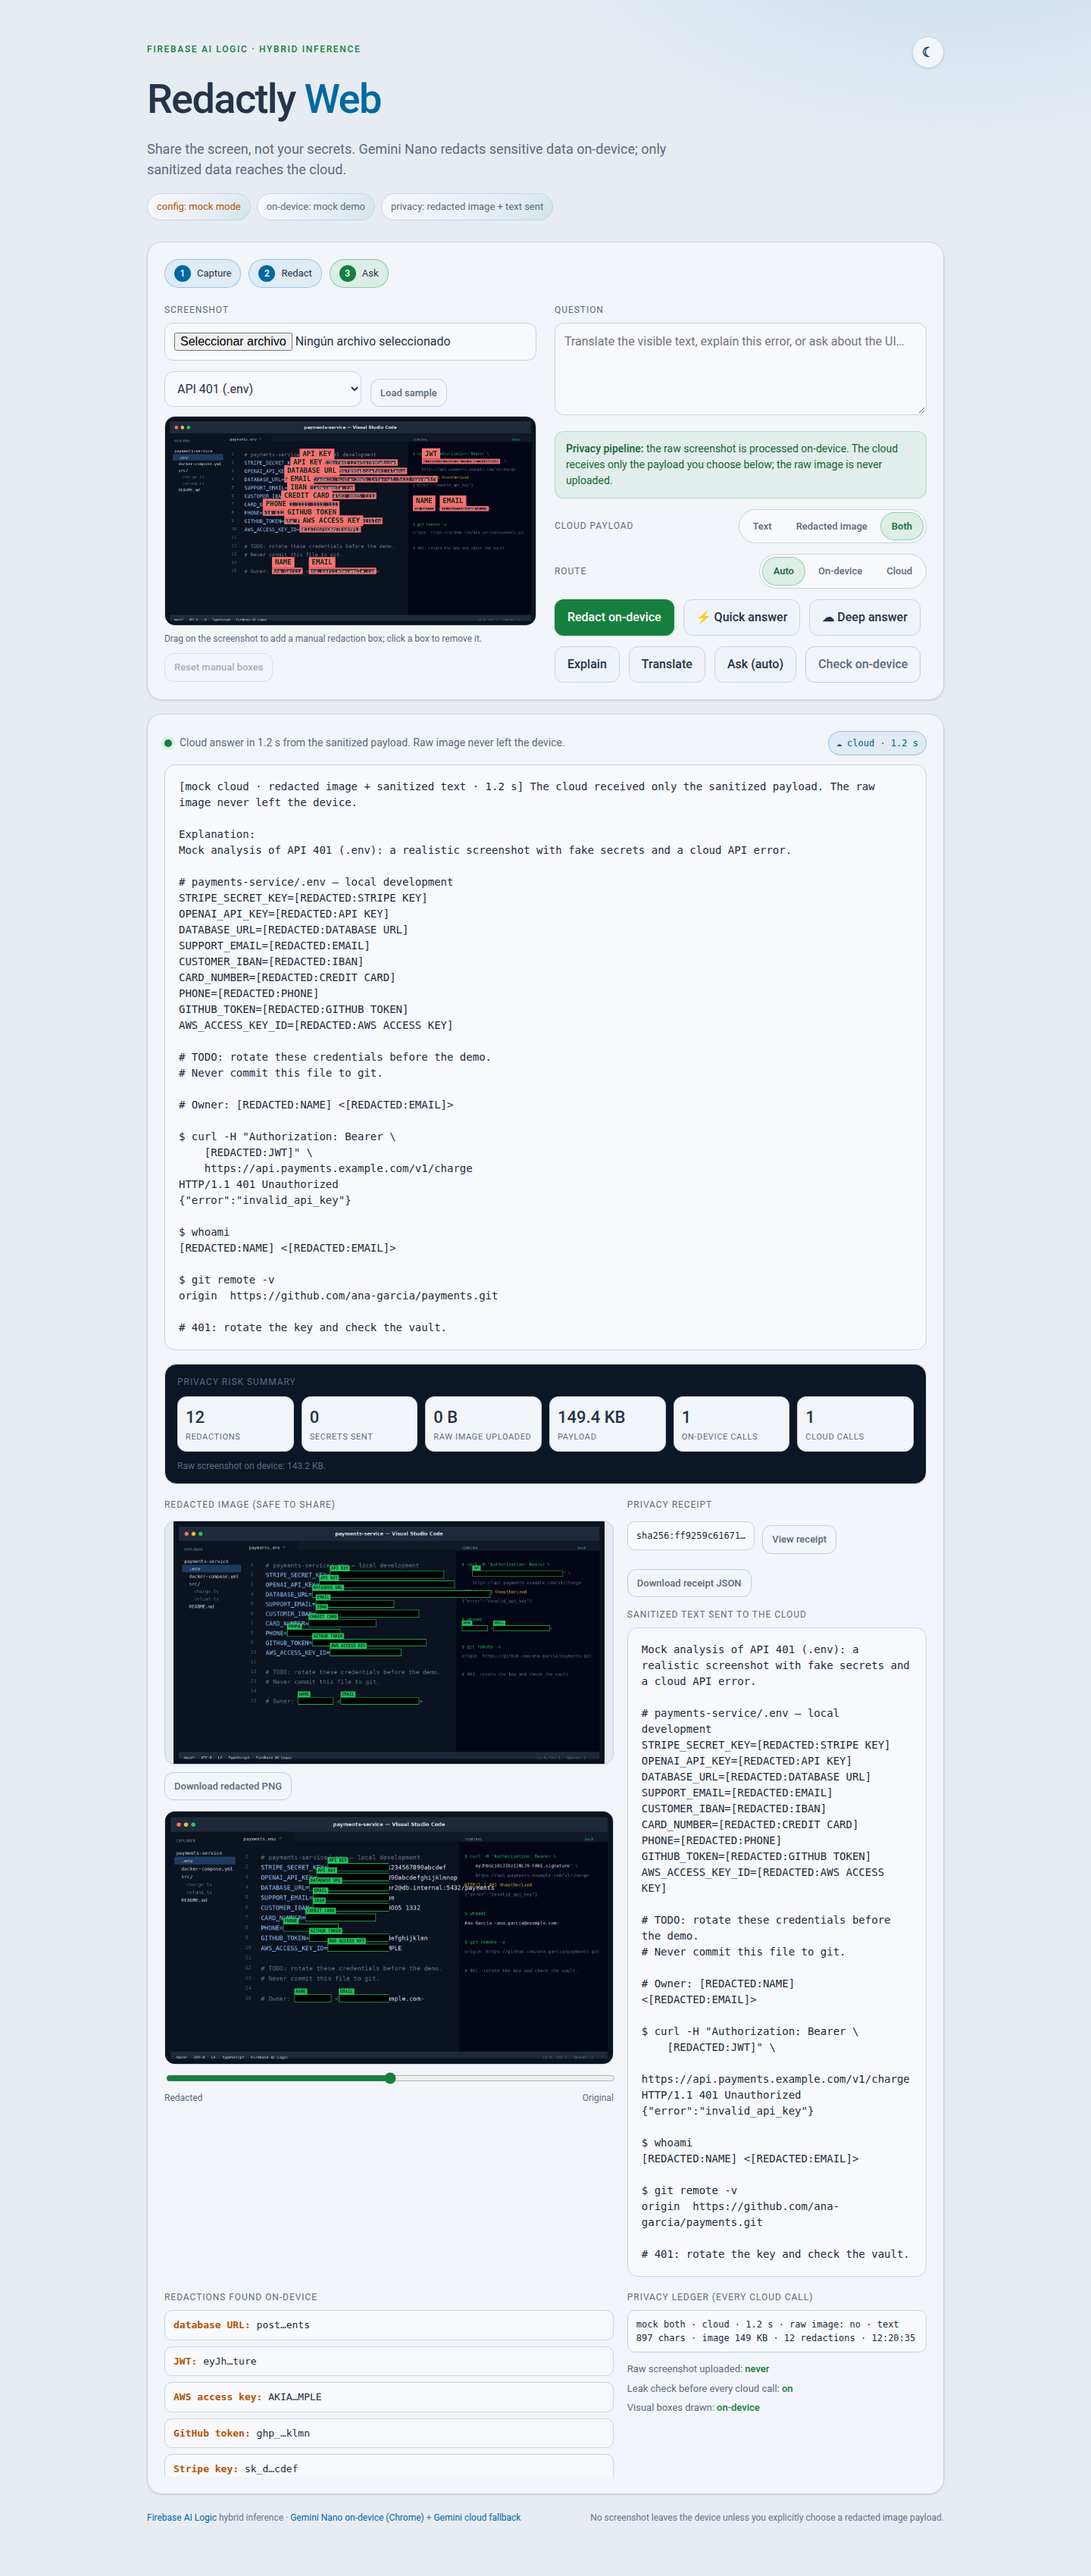
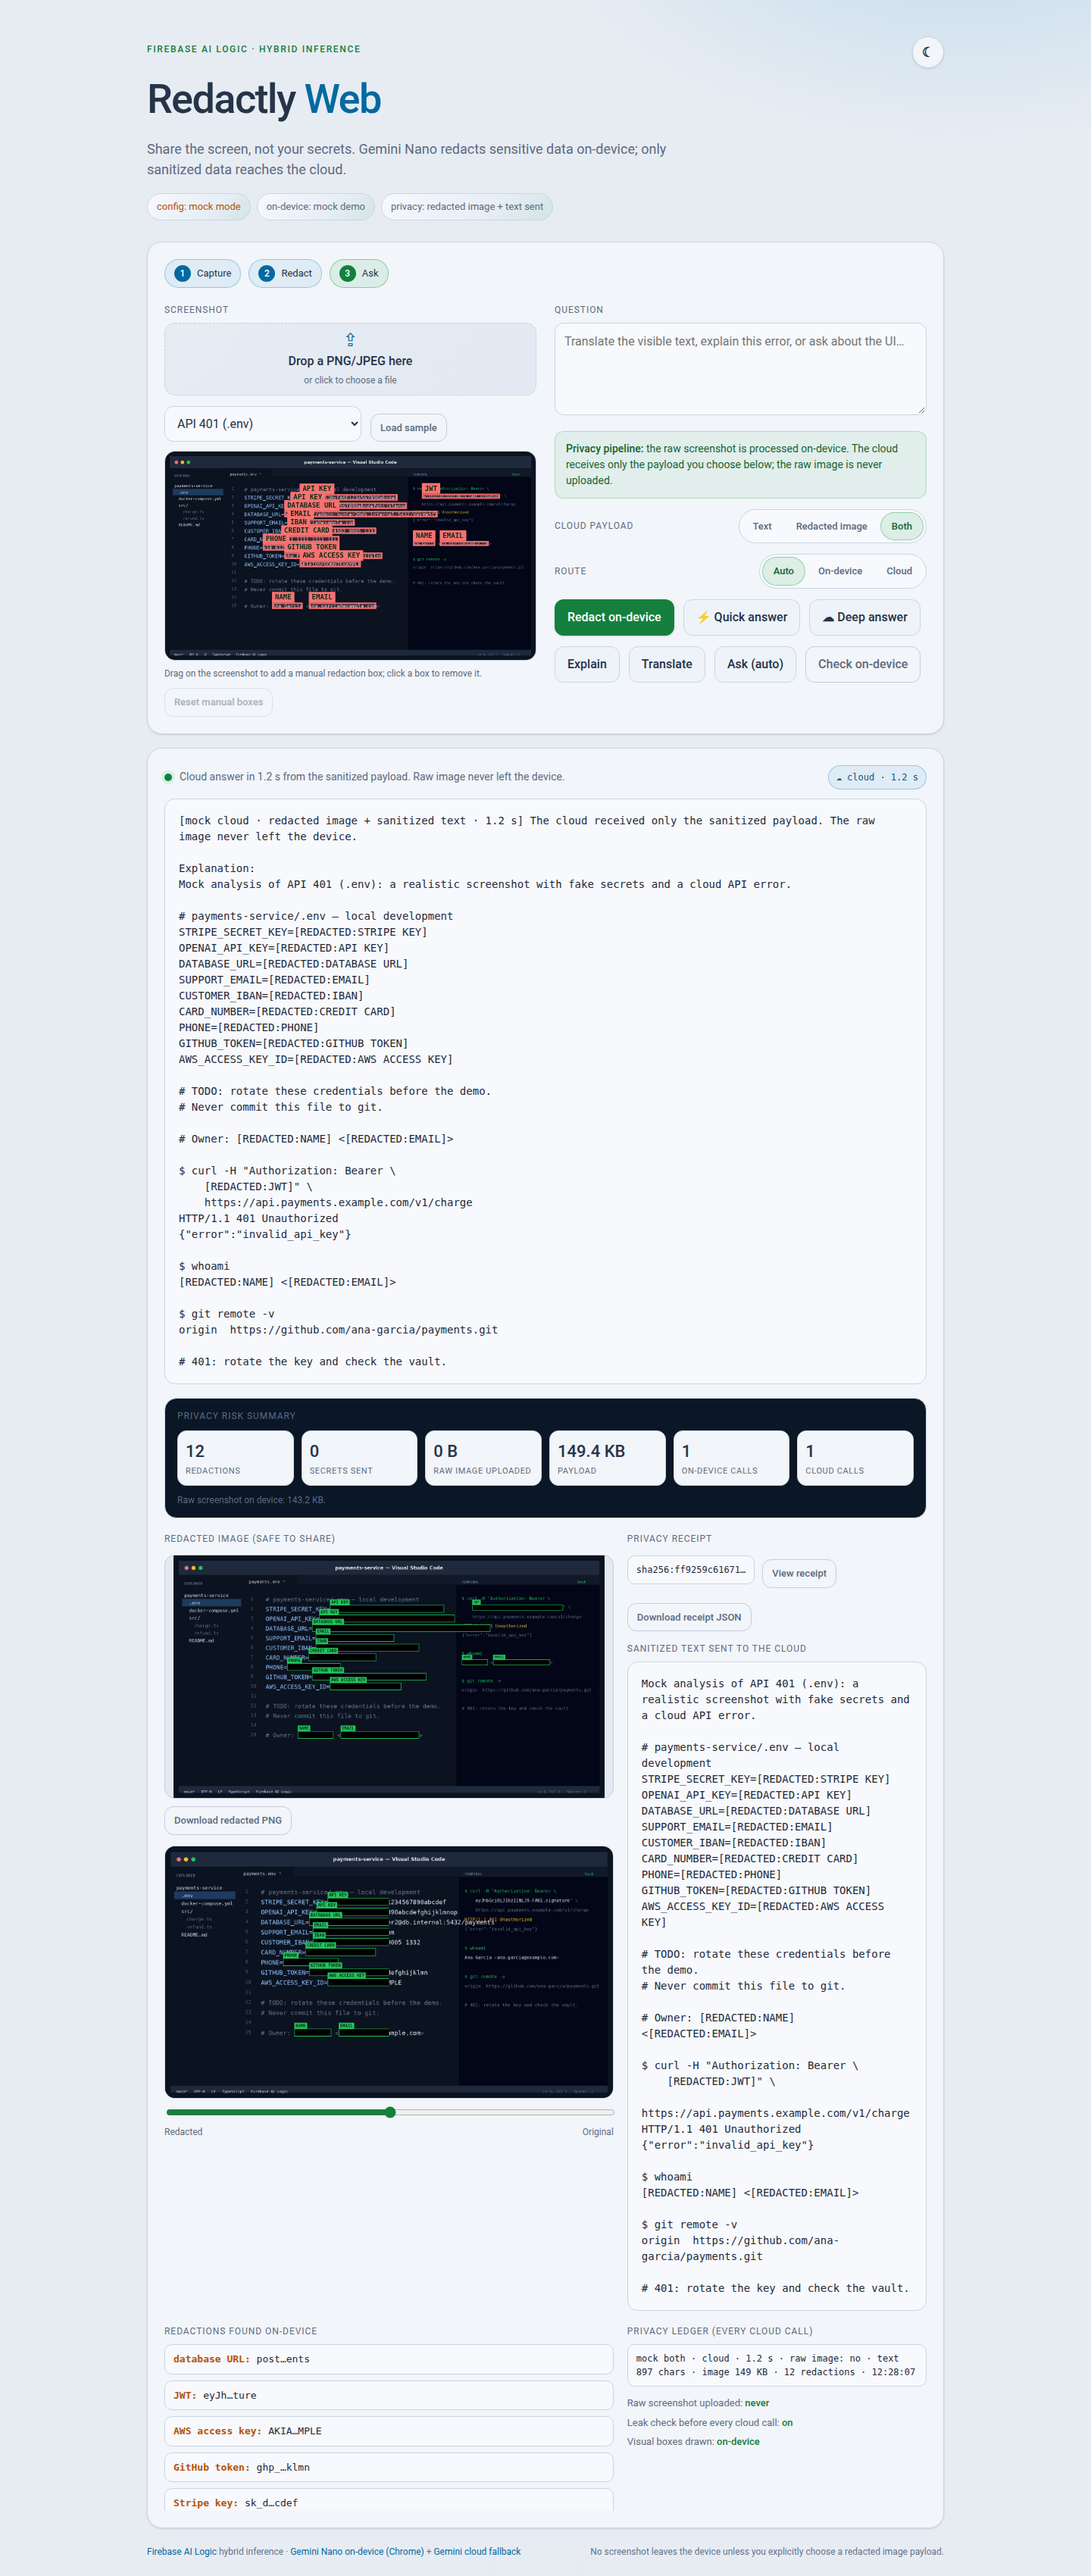
Add a drag-and-drop screenshot picker and button tooltips

diff --git a/index.html b/index.html
@@ -21,7 +21,7 @@
     <header class="hero">
       <div class="hero-top">
         <p class="eyebrow">FIREBASE AI LOGIC · HYBRID INFERENCE</p>
-        <button id="themeToggle" class="icon-btn theme-toggle" type="button" aria-label="Switch to light theme" aria-pressed="false" title="Switch to light theme">☀</button>
+        <button id="themeToggle" class="icon-btn theme-toggle" type="button" aria-label="Switch to light theme" aria-pressed="false" title="Switch to light theme" data-tip="Toggle light/dark theme">☀</button>
       </div>
       <h1>Redactly <span>Web</span></h1>
       <p class="sub">Share the screen, not your secrets. Gemini Nano redacts sensitive data on-device; only sanitized data reaches the cloud.</p>
@@ -42,14 +42,21 @@
       <div class="grid">
         <div>
           <label class="label" for="imageInput">Screenshot</label>
-          <input id="imageInput" type="file" accept="image/png,image/jpeg">
+          <div class="dropzone" id="dropzone" role="button" tabindex="0" aria-label="Choose or drop a PNG/JPEG screenshot">
+            <input id="imageInput" type="file" accept="image/png,image/jpeg">
+            <span class="dropzone-inner">
+              <span class="dropzone-icon" aria-hidden="true">⇪</span>
+              <span class="dropzone-title">Drop a PNG/JPEG here</span>
+              <span class="dropzone-sub">or click to choose a file</span>
+            </span>
+          </div>
           <div class="row sample-row">
-            <select id="sampleSelect" aria-label="Sample screenshot">
+            <select id="sampleSelect" aria-label="Sample screenshot" title="Choose a synthetic sample">
               <option value="sample.png">API 401 (.env)</option>
               <option value="sample-support.png">Support ticket</option>
               <option value="sample-bank.png">Bank statement</option>
             </select>
-            <button id="sampleBtn" class="ghost small">Load sample</button>
+            <button id="sampleBtn" class="ghost small" data-tip="Load the selected synthetic sample">Load sample</button>
           </div>
           <div class="preview" id="preview">
             <span id="previewEmpty">No image selected</span>
@@ -59,7 +66,7 @@
             </div>
           </div>
           <div class="hint">Drag on the screenshot to add a manual redaction box; click a box to remove it.</div>
-          <button id="resetBoxesBtn" class="ghost small" disabled>Reset manual boxes</button>
+          <button id="resetBoxesBtn" class="ghost small" disabled data-tip="Remove all manual redaction boxes">Reset manual boxes</button>
         </div>
 
         <div>
@@ -72,9 +79,9 @@
           <div class="row">
             <span class="label">Cloud payload</span>
             <div class="segmented" id="payloadGroup" role="radiogroup" aria-label="Cloud payload">
-              <button type="button" class="seg-btn selected" data-value="text" role="radio" aria-checked="true">Text</button>
-              <button type="button" class="seg-btn" data-value="image" role="radio" aria-checked="false">Redacted image</button>
-              <button type="button" class="seg-btn" data-value="both" role="radio" aria-checked="false">Both</button>
+              <button type="button" class="seg-btn selected" data-value="text" role="radio" aria-checked="true" data-tip="Send sanitized text only">Text</button>
+              <button type="button" class="seg-btn" data-value="image" role="radio" aria-checked="false" data-tip="Send the redacted PNG only">Redacted image</button>
+              <button type="button" class="seg-btn" data-value="both" role="radio" aria-checked="false" data-tip="Send redacted PNG + sanitized text">Both</button>
             </div>
             <select id="payload" class="sr-only" tabindex="-1" aria-hidden="true">
               <option value="text" selected>Sanitized text only (default)</option>
@@ -85,9 +92,9 @@
           <div class="row">
             <span class="label">Route</span>
             <div class="segmented" id="routeModeGroup" role="radiogroup" aria-label="Inference route">
-              <button type="button" class="seg-btn selected" data-value="auto" role="radio" aria-checked="true">Auto</button>
-              <button type="button" class="seg-btn" data-value="on-device" role="radio" aria-checked="false">On-device</button>
-              <button type="button" class="seg-btn" data-value="cloud" role="radio" aria-checked="false">Cloud</button>
+              <button type="button" class="seg-btn selected" data-value="auto" role="radio" aria-checked="true" data-tip="Route automatically">Auto</button>
+              <button type="button" class="seg-btn" data-value="on-device" role="radio" aria-checked="false" data-tip="Force on-device">On-device</button>
+              <button type="button" class="seg-btn" data-value="cloud" role="radio" aria-checked="false" data-tip="Force cloud">Cloud</button>
             </div>
             <select id="routeMode" class="sr-only" tabindex="-1" aria-hidden="true">
               <option value="auto" selected>Auto (hybrid)</option>
@@ -96,15 +103,15 @@
             </select>
           </div>
           <div class="row buttons">
-            <button id="redactBtn" class="primary">Redact on-device</button>
-            <button id="quickBtn">⚡ Quick answer</button>
-            <button id="deepBtn">☁ Deep answer</button>
+            <button id="redactBtn" class="primary" data-tip="Redact the screenshot on-device">Redact on-device</button>
+            <button id="quickBtn" data-tip="Answer on-device with a short prompt">⚡ Quick answer</button>
+            <button id="deepBtn" data-tip="Send the sanitized payload to the cloud">☁ Deep answer</button>
           </div>
           <div class="row buttons">
-            <button id="explainBtn">Explain</button>
-            <button id="translateBtn">Translate</button>
-            <button id="askBtn">Ask (auto)</button>
-            <button id="availabilityBtn" class="ghost">Check on-device</button>
+            <button id="explainBtn" data-tip="Explain the visible content on-device">Explain</button>
+            <button id="translateBtn" data-tip="Translate the visible text on-device">Translate</button>
+            <button id="askBtn" data-tip="Auto-route the question">Ask (auto)</button>
+            <button id="availabilityBtn" class="ghost" data-tip="Check Gemini Nano availability">Check on-device</button>
           </div>
         </div>
       </div>
@@ -136,7 +143,7 @@
         <div>
           <div class="label">Redacted image (safe to share)</div>
           <div class="preview redacted-preview" id="redactedPreview">Redact the screenshot first.</div>
-          <button id="downloadBtn" class="ghost small" disabled>Download redacted PNG</button>
+          <button id="downloadBtn" class="ghost small" disabled data-tip="Download the redacted PNG">Download redacted PNG</button>
           <div class="compare" id="compareWrap" hidden>
             <div class="compare-inner" id="compareInner">
               <img id="compareRaw" alt="Original screenshot">
@@ -150,8 +157,8 @@
           <div class="label">Privacy receipt</div>
           <div class="receipt-row">
             <code id="receiptHash">sha256:—</code>
-            <button id="viewReceiptBtn" class="ghost small" disabled>View receipt</button>
-            <button id="receiptBtn" class="ghost small" disabled>Download receipt JSON</button>
+            <button id="viewReceiptBtn" class="ghost small" disabled data-tip="View the SHA-256 privacy receipt">View receipt</button>
+            <button id="receiptBtn" class="ghost small" disabled data-tip="Download the receipt JSON">Download receipt JSON</button>
           </div>
           <div class="label receipt-label">Sanitized text sent to the cloud</div>
           <pre id="sanitized" class="output small-output">Redact the screenshot first.</pre>
@@ -188,13 +195,13 @@
   <dialog id="receiptDialog" class="dialog">
     <div class="dialog-head">
       <h2>Privacy receipt</h2>
-      <button id="closeReceiptBtn" class="icon-btn" aria-label="Close receipt">×</button>
+      <button id="closeReceiptBtn" class="icon-btn" aria-label="Close receipt" data-tip="Close the receipt">×</button>
     </div>
     <p class="dialog-sub">SHA-256 hashes, payload mode, route, latency and redaction types. The raw image is not in this receipt.</p>
     <pre id="receiptJson" class="output receipt-json"></pre>
     <div class="dialog-actions">
-      <button id="copyReceiptBtn" class="ghost">Copy JSON</button>
-      <button id="downloadReceiptBtn" class="primary">Download JSON</button>
+      <button id="copyReceiptBtn" class="ghost" data-tip="Copy the receipt JSON">Copy JSON</button>
+      <button id="downloadReceiptBtn" class="primary" data-tip="Download the receipt JSON">Download JSON</button>
     </div>
   </dialog>
 

diff --git a/app.js b/app.js
@@ -23,6 +23,7 @@ import {
 
 const $ = (id) => document.getElementById(id);
 const imageInput = $("imageInput");
+const dropzone = $("dropzone");
 const preview = $("preview");
 const previewEmpty = $("previewEmpty");
 const previewInner = $("previewInner");
@@ -164,6 +165,7 @@ let cloudModel = null;
 const initializedModels = new WeakSet();
 let sampleFile = null;
 let sampleName = DEFAULT_SAMPLE;
+let droppedFile = null;
 let currentImage = null;
 let currentFileSize = 0;
 let originalDataUrl = "";
@@ -731,6 +733,7 @@ async function loadSample(name) {
     imageInput.value = "";
     sampleFile = new File([blob], name, { type: "image/png" });
     sampleName = name;
+    droppedFile = null;
     sampleSelect.value = name;
     resetRedactionState();
     showPreview(sampleFile);
@@ -742,7 +745,7 @@ async function loadSample(name) {
 }
 
 async function redactOnDevice() {
-  const selected = imageInput.files?.[0] || sampleFile;
+  const selected = imageInput.files?.[0] || droppedFile || sampleFile;
   if (!selected) {
     setStatus("Choose a PNG/JPEG screenshot or load a sample.", "err");
     return;
@@ -1139,10 +1142,58 @@ function downloadBlob(content, type, name) {
 imageInput.addEventListener("change", () => {
   sampleFile = null;
   sampleName = "";
+  droppedFile = null;
   resetRedactionState();
   showPreview(imageInput.files?.[0] || null);
   setStep(1);
 });
+
+if (dropzone) {
+  const setDrag = (on) => dropzone.classList.toggle("dragover", on);
+  ["dragenter", "dragover"].forEach((eventName) => {
+    dropzone.addEventListener(eventName, (event) => {
+      event.preventDefault();
+      event.stopPropagation();
+      setDrag(true);
+    });
+  });
+  ["dragleave", "drop"].forEach((eventName) => {
+    dropzone.addEventListener(eventName, (event) => {
+      event.preventDefault();
+      event.stopPropagation();
+      setDrag(false);
+    });
+  });
+  dropzone.addEventListener("drop", (event) => {
+    const file = event.dataTransfer?.files?.[0];
+    if (!file) return;
+    if (!/^image\/(png|jpeg)$/.test(imageType(file))) {
+      setStatus("Drop a PNG or JPEG screenshot.", "err");
+      return;
+    }
+    if (file.size > 12 * 1024 * 1024) {
+      setStatus("The screenshot is larger than 12 MB. Resize it before redacting.", "err");
+      return;
+    }
+    droppedFile = file;
+    sampleFile = null;
+    sampleName = "";
+    imageInput.value = "";
+    resetRedactionState();
+    showPreview(file);
+    setStep(1);
+    setStatus(`Dropped ${file.name}. Click Redact on-device.`, "");
+  });
+  dropzone.addEventListener("click", (event) => {
+    if (event.target !== imageInput) imageInput.click();
+  });
+  dropzone.addEventListener("keydown", (event) => {
+    if (event.key === "Enter" || event.key === " ") {
+      event.preventDefault();
+      imageInput.click();
+    }
+  });
+}
 
 sampleSelect.addEventListener("change", () => {
   loadSample(sampleSelect.value);

diff --git a/styles.css b/styles.css
@@ -247,3 +247,13 @@ input[type=file]:focus,textarea:focus,select:focus{border-color:var(--md-seconda
 /* Footer links */
 .foot a{color:var(--blue);text-decoration:none;border-bottom:1px solid transparent;text-underline-offset:2px;transition:border-color var(--motion),color var(--motion)}
 .foot a:hover{border-bottom-color:currentColor;color:var(--md-secondary)}
+
+/* Pretty screenshot drop zone */
+.dropzone{position:relative;display:flex;align-items:center;justify-content:center;min-height:96px;margin-bottom:10px;border:1px dashed var(--md-outline);border-radius:14px;background:linear-gradient(135deg,var(--md-surface),var(--md-surface-2));cursor:pointer;transition:border-color var(--motion),background var(--motion),box-shadow var(--motion)}
+.dropzone:hover,.dropzone.dragover{border-color:var(--md-secondary);background:linear-gradient(135deg,var(--md-surface-2),var(--md-surface));box-shadow:0 0 0 3px rgba(56,189,248,.14)}
+.dropzone:focus-visible{outline:2px solid var(--md-secondary);outline-offset:2px}
+.dropzone input[type=file]{position:absolute;inset:0;width:100%;height:100%;opacity:0;cursor:pointer}
+.dropzone-inner{display:flex;flex-direction:column;align-items:center;gap:4px;text-align:center;pointer-events:none}
+.dropzone-icon{font-size:24px;line-height:1;color:var(--md-secondary)}
+.dropzone-title{font-weight:700;color:var(--text)}
+.dropzone-sub{font-size:12px;color:var(--muted)}

diff --git a/README.md b/README.md
@@ -24,6 +24,8 @@ explicitly chooses.
 - SHA-256 privacy receipt, risk card and privacy ledger.
 - Three synthetic scenarios: API 401, support ticket and bank statement.
 - Mock mode for offline demos and Node tests for the pure logic.
+- Drag-and-drop PNG/JPEG input with a styled picker.
+- Concise tooltips on every action button.
 - Light/dark theme toggle in the header, persisted in `localStorage`.
 
 ## Hosted demo
